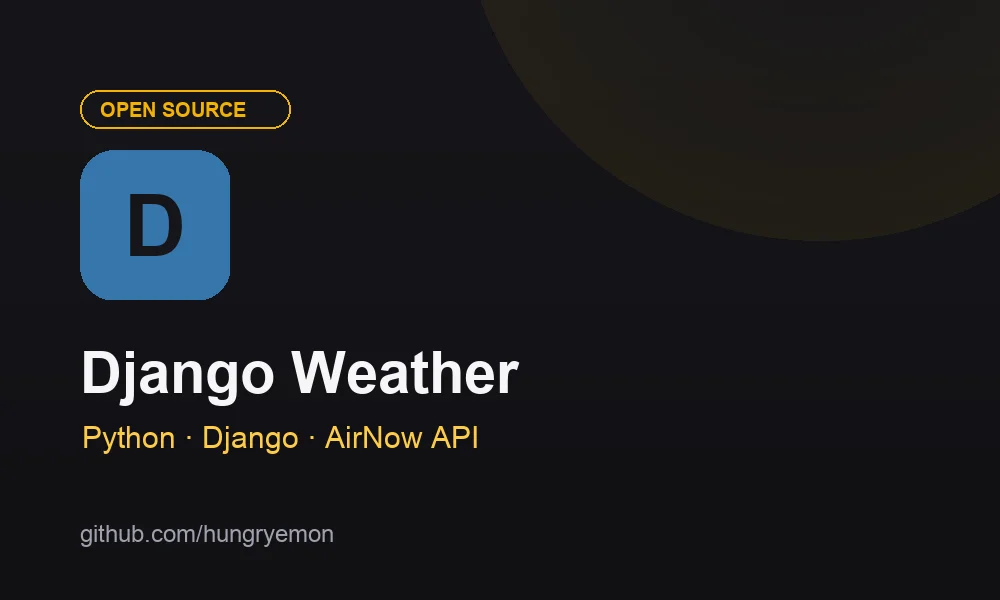
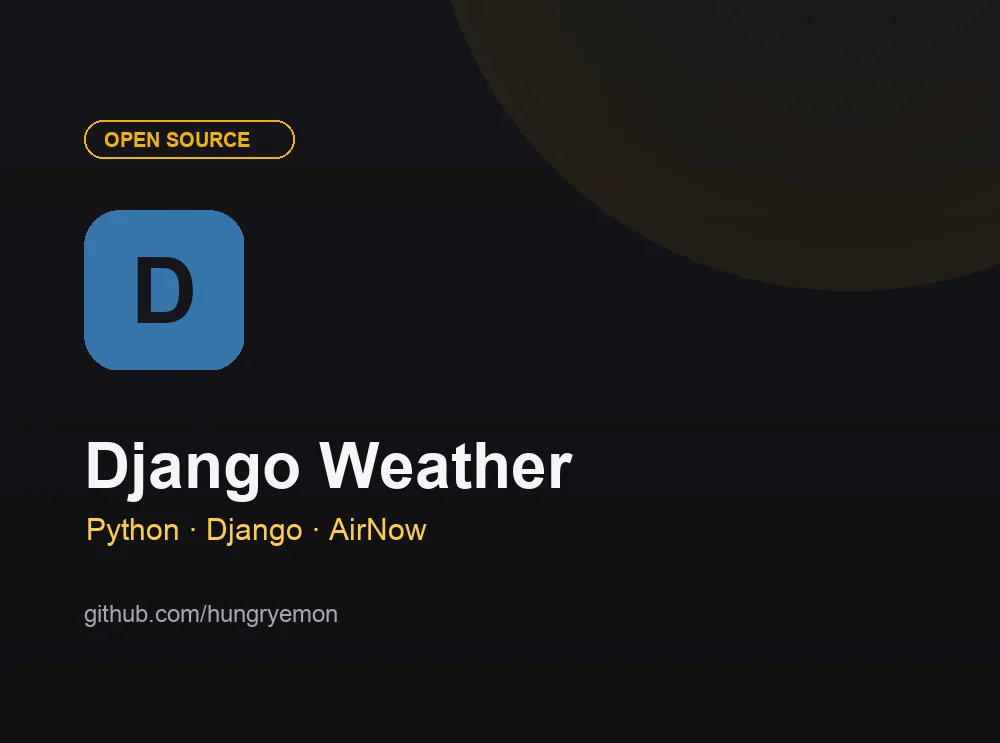
Ostad Windows link, uniform App Store buttons, fill covers
- Ostad: added Windows app download (cdn.ostad.app installer via cutt.ly)
  with a Windows button + icon
- App Store button on featured cards (SDS Manager, Note Genie, Paraphrase
  AI, Invoice Matrix) no longer uses the special 'primary' style — now
  matches the other link buttons
- Todo & Django covers: object-fit fill (fills height & width, no letterbox);
  regenerated covers at the card aspect ratio so fill doesn't distort
- Cache-bust → v7

diff --git a/js/script.js b/js/script.js
@@ -53,7 +53,7 @@ const PROJECTS = [
     desc: "Multi-platform live-learning app for Bangladesh's leading ed-tech bootcamp — real-time streamed classes, a task-based curriculum, mentor feedback and job-placement tools. Built from scratch, serving 20,000+ learners across iOS, Android, macOS, Windows & Linux.",
     tech: ['Flutter', 'Dart', 'Live Streaming', 'GetX', 'Mixpanel', 'Sentry'],
     shots: ['shot-1.webp','shot-2.webp','shot-3.webp','shot-4.webp','shot-5.webp','shot-6.webp'],
-    links: { appstore: 'https://apps.apple.com/us/app/ostad-app/id6446163017', play: 'https://play.google.com/store/apps/details?id=com.ostad.app', web: 'https://ostad.app' },
+    links: { appstore: 'https://apps.apple.com/us/app/ostad-app/id6446163017', play: 'https://play.google.com/store/apps/details?id=com.ostad.app', web: 'https://ostad.app', windows: 'https://cutt.ly/Fr3QsjFo' },
   },
   {
     slug: 'quran-shikkha', name: 'Quran Shikkha', type: 'apps',
@@ -168,11 +168,12 @@ const EXPERIENCE = [
 function el(html) { const t = document.createElement('template'); t.innerHTML = html.trim(); return t.content.firstElementChild; }
 function chips(arr) { return arr.map(s => `<span class="chip">${s}</span>`).join(''); }
 
-function linkButtons(links, featured) {
+function linkButtons(links) {
   const out = [];
-  if (links.appstore) out.push(`<a class="${featured ? 'primary' : ''}" href="${links.appstore}" target="_blank" rel="noopener"><i aria-hidden="true" class="fa-brands fa-app-store-ios"></i> App Store</a>`);
+  if (links.appstore) out.push(`<a href="${links.appstore}" target="_blank" rel="noopener"><i aria-hidden="true" class="fa-brands fa-app-store-ios"></i> App Store</a>`);
   if (links.play) out.push(`<a href="${links.play}" target="_blank" rel="noopener"><i aria-hidden="true" class="fa-brands fa-google-play"></i> Google Play</a>`);
   if (links.web) out.push(`<a href="${links.web}" target="_blank" rel="noopener"><i aria-hidden="true" class="fa-solid fa-globe"></i> Web</a>`);
+  if (links.windows) out.push(`<a href="${links.windows}" target="_blank" rel="noopener"><i aria-hidden="true" class="fa-brands fa-windows"></i> Windows</a>`);
   if (links.github) out.push(`<a class="primary" href="${links.github}" target="_blank" rel="noopener"><i aria-hidden="true" class="fa-brands fa-github"></i> Source</a>`);
   return out.join('');
 }
@@ -204,7 +205,7 @@ function renderProjects() {
           <p class="card-tagline">${p.tagline}</p>
           <p class="card-desc">${p.desc}</p>
           <div class="card-tech">${p.tech.map(t => `<span>${t}</span>`).join('')}</div>
-          <div class="card-links">${linkButtons(p.links, p.featured)}</div>
+          <div class="card-links">${linkButtons(p.links)}</div>
         </div>
       </article>`);
     grid.appendChild(card);
@@ -279,7 +280,7 @@ function openLightbox(slug, trigger) {
         ${p.shots.map(s => `<img src="${ASSET(p.slug, s)}" alt="${p.name} screenshot" loading="lazy" />`).join('')}
       </div>
     </div>
-    <div class="lb-links card-links">${linkButtons(p.links, true)}</div>`;
+    <div class="lb-links card-links">${linkButtons(p.links)}</div>`;
   lb.classList.add('open');
   lb.setAttribute('aria-hidden', 'false');
   document.body.style.overflow = 'hidden';

diff --git a/css/style.css b/css/style.css
@@ -227,9 +227,9 @@ img { max-width: 100%; display: block; }
 /* GitHub badge (open-source cards with screenshots) */
 .card-badge { position: absolute; top: 16px; left: 16px; width: 46px; height: 46px; border-radius: 12px; border: 1px solid var(--border-2); box-shadow: var(--shadow-sm); z-index: 3; background: var(--surface); display: grid; place-items: center; color: var(--text); font-size: 1.2rem; }
 
-/* Cover image media (open-source cards without screenshots) */
-.card-cover { height: 280px; overflow: hidden; background: var(--bg); display: flex; align-items: center; justify-content: center; }
-.card-cover img { width: 100%; height: 100%; object-fit: contain; transition: transform 0.5s var(--ease); }
+/* Cover image media (open-source cards without screenshots) — fills height & width */
+.card-cover { height: 280px; overflow: hidden; background: var(--bg); }
+.card-cover img { width: 100%; height: 100%; object-fit: fill; transition: transform 0.5s var(--ease); }
 .project-card:hover .card-cover img { transform: scale(1.04); }
 
 .card-body { padding: 20px 22px 22px; display: flex; flex-direction: column; flex: 1; }

diff --git a/index.html b/index.html
@@ -38,7 +38,7 @@
   <link href="https://fonts.googleapis.com/css2?family=Poppins:wght@300;400;500;600;700&family=JetBrains+Mono:wght@400;500&display=swap" rel="stylesheet" />
   <link rel="stylesheet" href="https://cdnjs.cloudflare.com/ajax/libs/font-awesome/6.5.2/css/all.min.css" referrerpolicy="no-referrer" />
 
-  <link rel="stylesheet" href="css/style.css?v=6" />
+  <link rel="stylesheet" href="css/style.css?v=7" />
 
   <!-- SEO: structured data -->
   <script type="application/ld+json">
@@ -245,6 +245,6 @@
   <!-- Libraries -->
   <script src="https://cdn.jsdelivr.net/particles.js/2.0.0/particles.min.js" defer></script>
   <script src="https://cdnjs.cloudflare.com/ajax/libs/typed.js/2.1.0/typed.umd.js" defer></script>
-  <script src="js/script.js?v=6" defer></script>
+  <script src="js/script.js?v=7" defer></script>
 </body>
 </html>